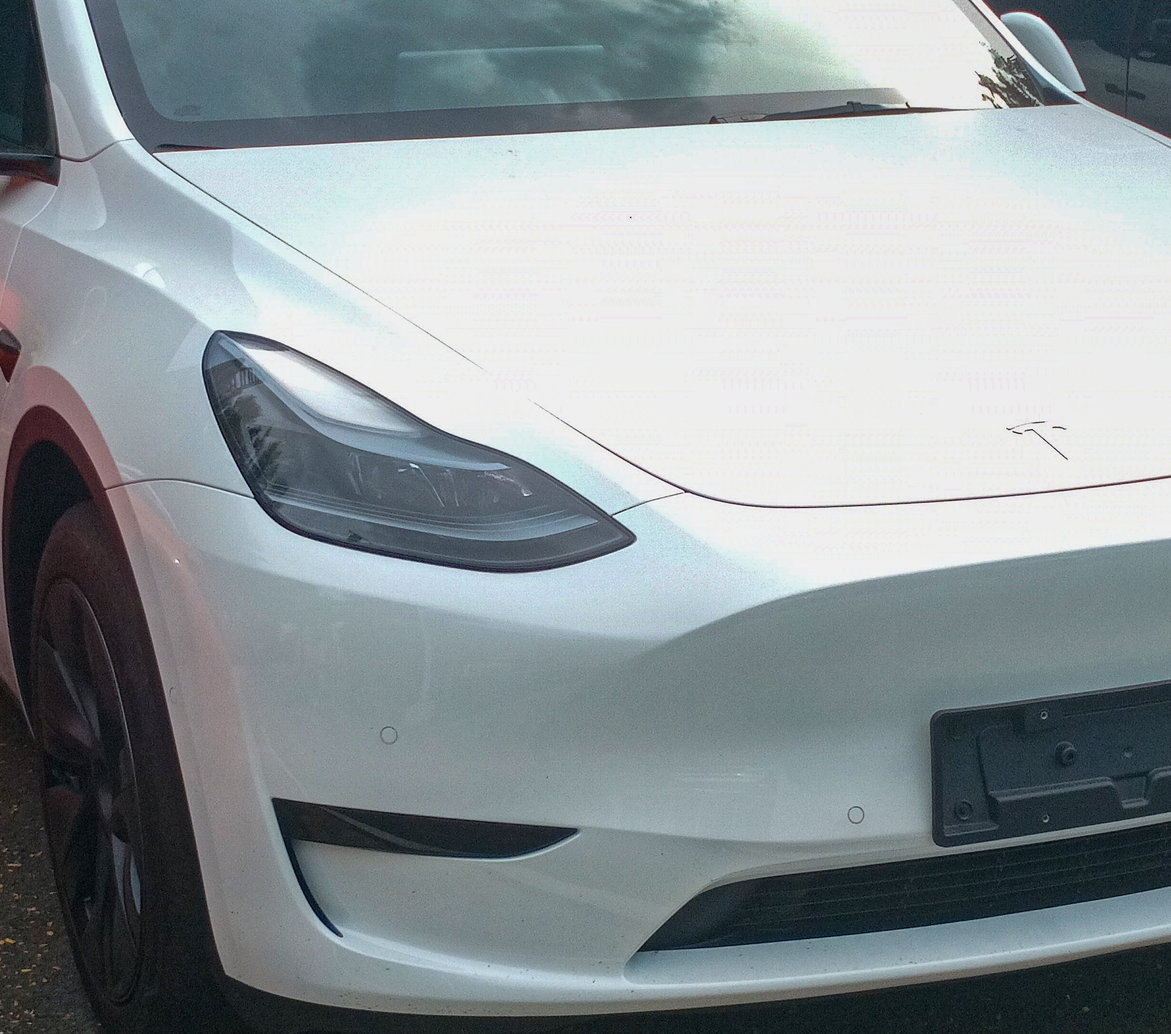
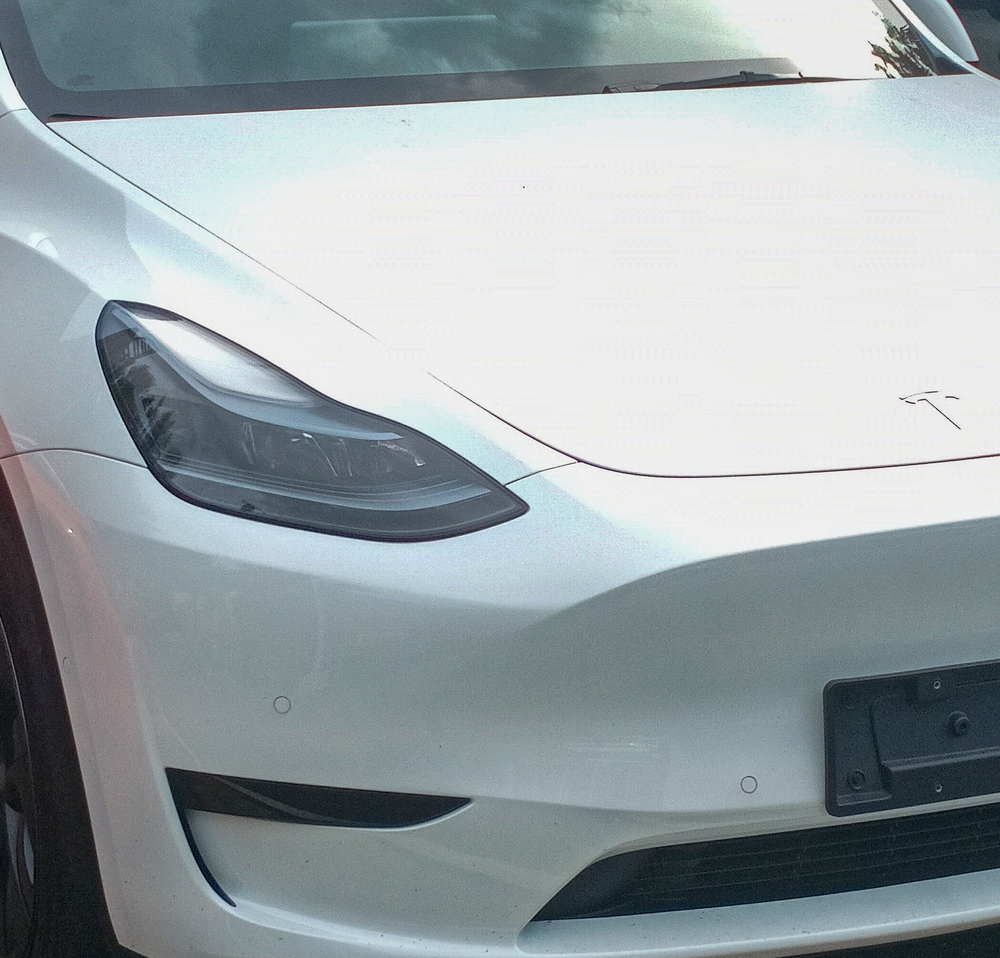
Fix QA issues: nav default, full-bleed layouts, recrops, contrast, mobile nav
Navigation:
- Default currentSection to null instead of 'history'
- Only activate nav links and year rail when midpoint is actually in a section
- Fixes hero showing HISTORY active and year rail on load

Layout:
- Chapter hero: full-bleed 100vw breaking out of --page container
- Plaque stage: full-bleed 100vw with proper centering calc
- Vehicle chapters: restore desktop two-column grid (photo spans both, year/copy in 42%/58%)

Image fixes:
- Recropped Roadster: removed show-floor railings, curtain, placard
- Recropped Model Y: removed neighboring orange car and black SUV
- Model X: object-position center 20% to keep falcon wings in frame

Contrast:
- Darkened plaque gradient overlay for white vehicles
  linear-gradient(to top, rgba(23,26,32,0.96) 0%, rgba(23,26,32,0.78) 38%, rgba(23,26,32,0.2) 62%, transparent)
- Improves readability on Model Y pearl white and Model 3

Mobile:
- Nav links: gap 16px and letter-spacing 0.12em under 600px
- Unofficial badge: hidden below 480px (already working)

diff --git a/style.css b/style.css
@@ -77,6 +77,16 @@ body {
     gap: 32px;
 }
 
+@media (max-width: 600px) {
+    .nav-links {
+        gap: 16px;
+    }
+    
+    .nav-link {
+        letter-spacing: 0.12em;
+    }
+}
+
 .nav-link {
     font-size: 11px;
     font-weight: 400;
@@ -234,8 +244,9 @@ html.js .chapter.visible {
 /* History vehicle chapters with photos */
 .chapter-hero {
     position: relative;
-    width: 100%;
+    width: 100vw;
     height: 42vh;
+    margin-left: calc(-1 * var(--gutter));
     margin-bottom: 8vh;
     overflow: hidden;
 }
@@ -253,6 +264,10 @@ html.js .chapter.visible {
     object-position: center;
 }
 
+#y2015b .chapter-hero-img {
+    object-position: center 20%;
+}
+
 .chapter-hero-overlay {
     position: absolute;
     top: 0;
@@ -261,10 +276,6 @@ html.js .chapter.visible {
     bottom: 0;
     background: linear-gradient(to top, rgba(23,26,32,0.92) 0%, rgba(23,26,32,0.5) 40%, rgba(23,26,32,0.12) 68%, transparent);
     pointer-events: none;
-}
-
-.chapter--vehicle {
-    display: block;
 }
 
 @media (min-width: 900px) {
@@ -276,18 +287,19 @@ html.js .chapter.visible {
     }
     
     .chapter--vehicle {
-        display: block;
+        display: grid;
+        grid-template-columns: 42% 1fr;
+        gap: 48px;
+    }
+    
+    .chapter--vehicle .chapter-hero {
+        grid-column: 1 / -1;
     }
     
     .chapter time {
         text-align: right;
         margin-bottom: 0;
         padding-top: 0.2em;
-    }
-    
-    .chapter--vehicle time {
-        text-align: left;
-        margin-bottom: 24px;
     }
 }
 
@@ -361,8 +373,9 @@ html.js .chapter.visible {
 
 .plaque-stage {
     position: relative;
-    width: 100%;
+    width: 100vw;
     height: 88svh;
+    margin-left: calc((100vw - 100%) / -2);
     overflow: hidden;
 }
 
@@ -379,7 +392,7 @@ html.js .chapter.visible {
     left: 0;
     right: 0;
     bottom: 0;
-    background: linear-gradient(to top, rgba(23,26,32,0.92) 0%, rgba(23,26,32,0.5) 40%, rgba(23,26,32,0.12) 68%, transparent);
+    background: linear-gradient(to top, rgba(23,26,32,0.96) 0%, rgba(23,26,32,0.78) 38%, rgba(23,26,32,0.2) 62%, transparent);
     pointer-events: none;
 }
 

diff --git a/script.js b/script.js
@@ -16,7 +16,7 @@ function updateNav() {
     // Update active nav link based on current section (viewport midpoint)
     const sections = ['history', 'vehicles', 'energy'];
     const midpoint = window.innerHeight / 2;
-    let currentSection = 'history';
+    let currentSection = null;
     
     for (const section of sections) {
         const element = document.getElementById(section);
@@ -30,14 +30,15 @@ function updateNav() {
     }
     
     navLinks.forEach(link => {
-        if (link.getAttribute('href') === `#${currentSection}`) {
+        const href = link.getAttribute('href');
+        if (currentSection && href === `#${currentSection}`) {
             link.classList.add('active');
         } else {
             link.classList.remove('active');
         }
     });
     
-    // Show year rail only in history section
+    // Show year rail only when actually in history section
     if (currentSection === 'history') {
         document.body.classList.add('in-history');
     } else {
